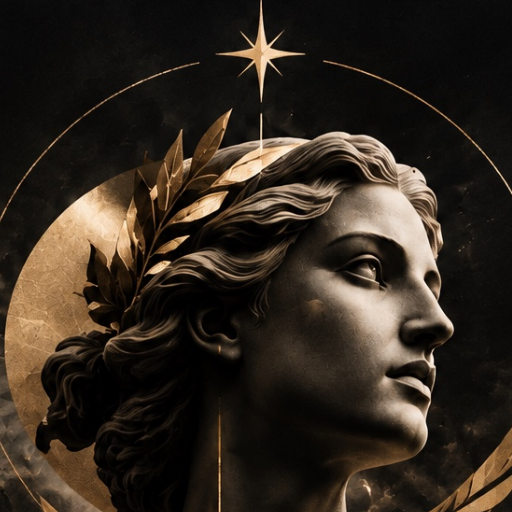
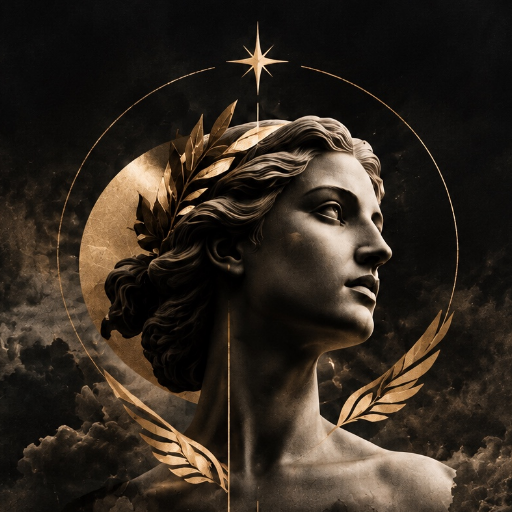
Release v0.7.2: round plan predictions to one decimal, explain the name Hebe, full-bust mark

diff --git a/desktop/plugin.js b/desktop/plugin.js
@@ -151,7 +151,7 @@ const day = iso => { try { return new Date(iso + 'T12:00:00Z').toLocaleDateStrin
 const today = () => new Date().toISOString().slice(0, 10)
 const cap = t => t ? t[0].toUpperCase() + t.slice(1) : t
 const plain = t => String(t || '').replace(/phenoage_acceleration/g, 'PhenoAge gap').replace(/blood_phenoage/g, 'Blood PhenoAge').replace(/phenoage/g, 'PhenoAge').replace(/_/g, ' ')
-const signed = n => (n > 0 ? '+' : n < 0 ? '−' : '') + Math.abs(n)
+const signed = n => { const r = Math.round(Number(n) * 10) / 10; return (r > 0 ? '+' : r < 0 ? '−' : '') + Math.abs(r) }
 const SCREEN = { block: ['block', 'Blocked by screening'], caution: ['caution', 'Caution'] }
 const pretty = id => id === 'alex-demo' ? 'Alex Demo' : id
 const versus = d => Math.abs(d) < 0.05 ? 'the same as your calendar age' : `${one(Math.abs(d))} years ${d < 0 ? 'younger' : 'older'} than your calendar age`

diff --git a/README.md b/README.md
@@ -8,6 +8,8 @@ Know your biological age. Hebe reads nine values from a routine blood test, calc
 
 Published by [BrainArts Lab](https://github.com/brainarts-lab) · [@chrisbrainarts on X](https://x.com/chrisbrainarts) · MIT licensed
 
+**Why Hebe?** In Greek myth, Hebe is the goddess of youth, daughter of Zeus and Hera and cupbearer of the gods. Her nectar and ambrosia kept the Olympians forever young, and in Euripides she gives the aging hero Iolaus his youth back for one day. A fitting patron for a longevity agent.
+
 ### What you get
 
 - **A Hebe page in Hermes Desktop.** Open **Hebe** in the sidebar: add a blood test, check every value, see your report, start plans. All with clicks, no files or commands needed
